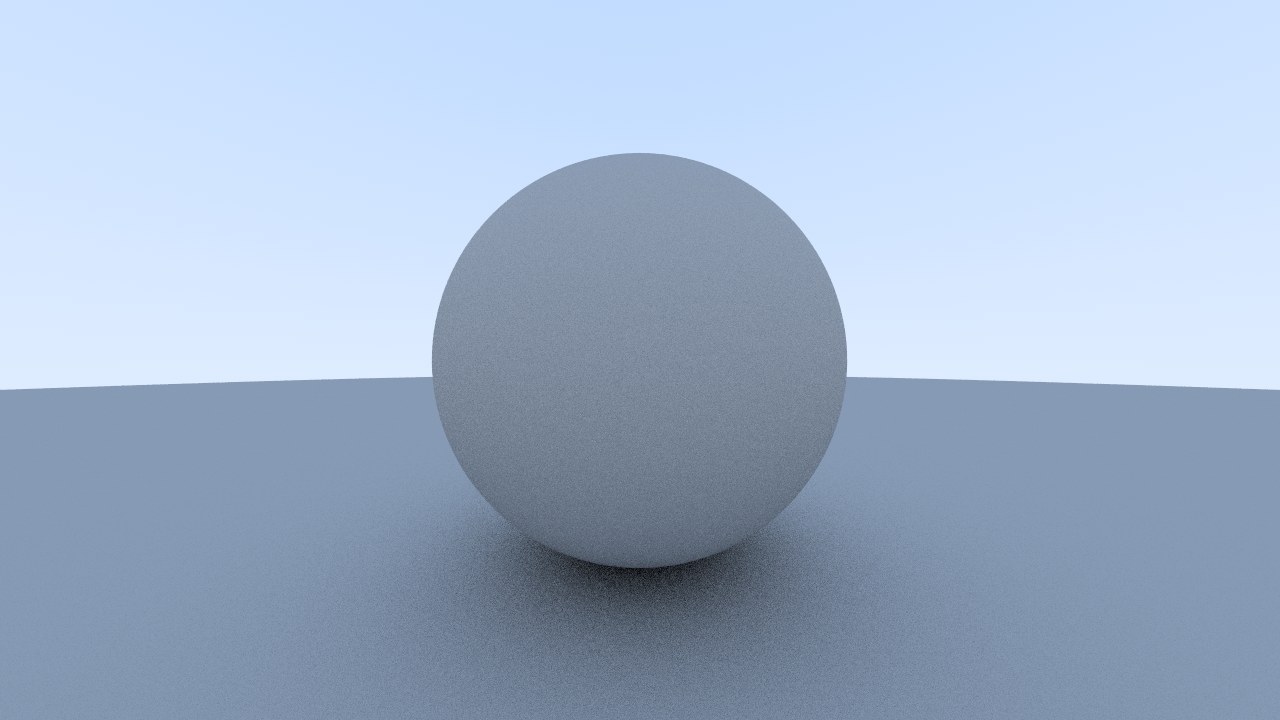
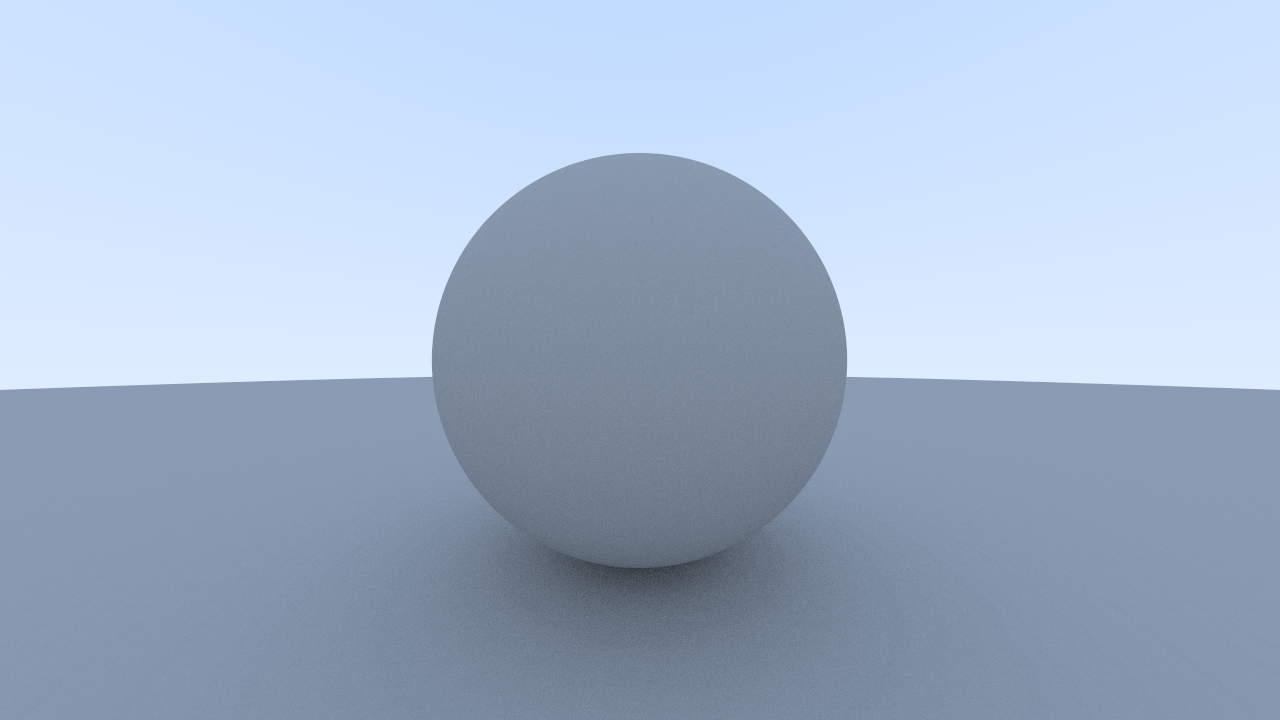
Finish diffuse material

Changed region(s): [[0.375, 0.7333, 0.625, 0.9167]]

diff --git a/Raytracing.cpp b/Raytracing.cpp
@@ -15,11 +15,11 @@ Raytracing::Raytracing() {
 	//Sphere sphere1(Vector3D(0, 0, -1), 0.5);
 	m_objects.push_back(new Sphere(Vector3D(0.0f, 0.0f, -1.0f), 0.5f));
 	m_objects.push_back(new Sphere(Vector3D(0.0f, -600.5f, -1.0f), 600.0f));
+	//m_objects.push_back(new Sphere(Vector3D(0.0f, -600.5f, -1.0f), 600.0f));
 
 	// Image
 	m_imageWidth = 1280;
 	m_imageHeight = 720;
-	m_samplesPerPixel = 32;
 
 	m_render = Image(m_imageWidth, m_imageHeight, 3);
 
@@ -32,6 +32,7 @@ Raytracing::Raytracing() {
 	m_camera = Camera(aspect_ratio, viewport_height, viewport_width, focal_length);
 
 	// Other
+	m_samplesPerPixel = 128;
 	m_maxDepth = 8;
 	m_tileSize = 32;
 }
@@ -93,6 +94,20 @@ Raytracing::~Raytracing() {
 	m_objects.clear();
 }
 
+const Vector3D Raytracing::RandomInHemisphere(const Vector3D & normal) {
+	Vector3D inUnitSphere = RandomInUnitSphere();
+	//inUnitSphere.UnitVector();
+	if (inUnitSphere.DotProduct(normal) > 0.0f) {
+		return inUnitSphere;
+	}
+	else {
+		inUnitSphere *= 1.0f;
+		return inUnitSphere;
+	}
+
+	return inUnitSphere;
+}
+
 const Vector3D Raytracing::RandomInUnitSphere() {
 	while (true) {
 		Vector3D p = Vector3D::Random(-1.0f, 1.0f);
@@ -105,6 +120,12 @@ const Vector3D Raytracing::RandomInUnitSphere() {
 	return Vector3D();
 }
 
+const Vector3D Raytracing::RandomUnitVector() {
+	Vector3D temp = RandomInUnitSphere();
+	temp.UnitVector();
+	return temp;
+}
+
 const Vector3D Raytracing::RayColor(Ray& ray, const int depth) {
 	// If we've exceeded the ray bounce limit, no more light is gathered.
 	if (depth <= 0) return Vector3D(0.0f, 0.0f, 0.0f);
@@ -115,7 +136,8 @@ const Vector3D Raytracing::RayColor(Ray& ray, const int depth) {
 		//Vector3D col = rec.normal + Vector3D(1.0f, 1.0f, 1.0f);
 		//col *= 0.5f/* * 255.0f*/;
 
-		Vector3D target = rec.point + rec.normal + RandomInUnitSphere();
+		Vector3D target = rec.point + RandomUnitVector() + rec.normal;
+		//Vector3D target = rec.point + RandomInHemisphere(rec.normal);
 		Ray tempRay = Ray(rec.point, target - rec.point);
 
 		return RayColor(tempRay, depth - 1) * 0.5f;

diff --git a/Raytracing.h b/Raytracing.h
@@ -17,7 +17,9 @@ public:
 	~Raytracing();
 
 private:
+	const Vector3D RandomInHemisphere(const Vector3D & normal);
 	const Vector3D RandomInUnitSphere();
+	const Vector3D RandomUnitVector();
 	const Vector3D RayColor(Ray& ray, const int depth);
 
 	const bool HitObject(Ray& ray, const float t_min, const float t_max, HitRec& rec);
